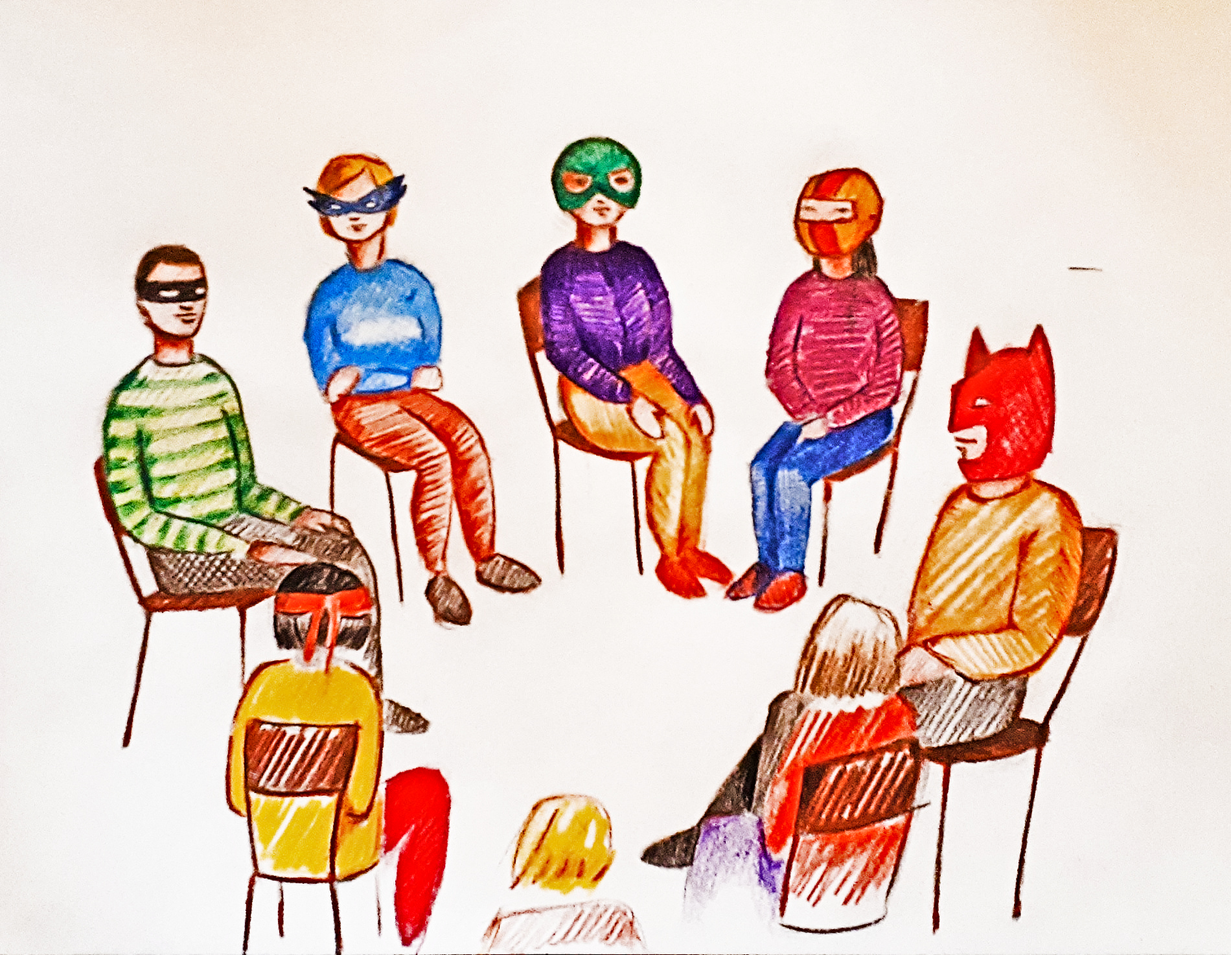
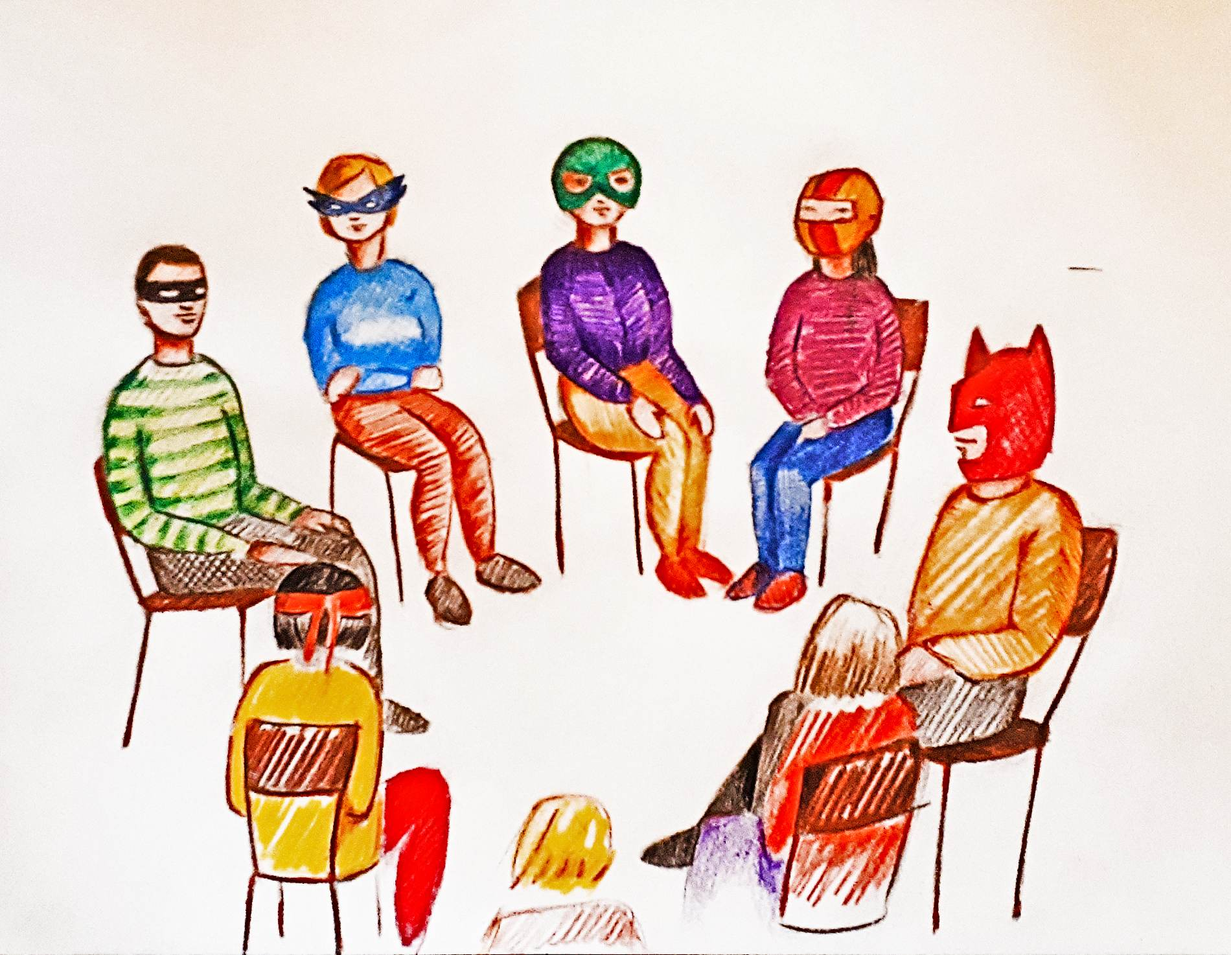
img sizes

Changed region(s): [[0.1863, 0.8114, 0.2174, 0.8426]]

diff --git a/index.html b/index.html
@@ -80,7 +80,7 @@
                 </div>
                  <!-- Project Zero Row-->
                  <div class="row justify-content-center no-gutters mb-5 mb-lg-0">
-                    <div class="col-lg-6"><img class="img-fluid" src="assets/img/soulcreatures.jpg" alt="" /></div>
+                    <div class="col-lg-6"><img class="img-fluid" src="assets/img/soulcreatures_sm.jpg" alt="" /></div>
                     <div class="col-lg-6">
                         <div class="bg-black text-center h-100 project">
                             <div class="d-flex h-100">
